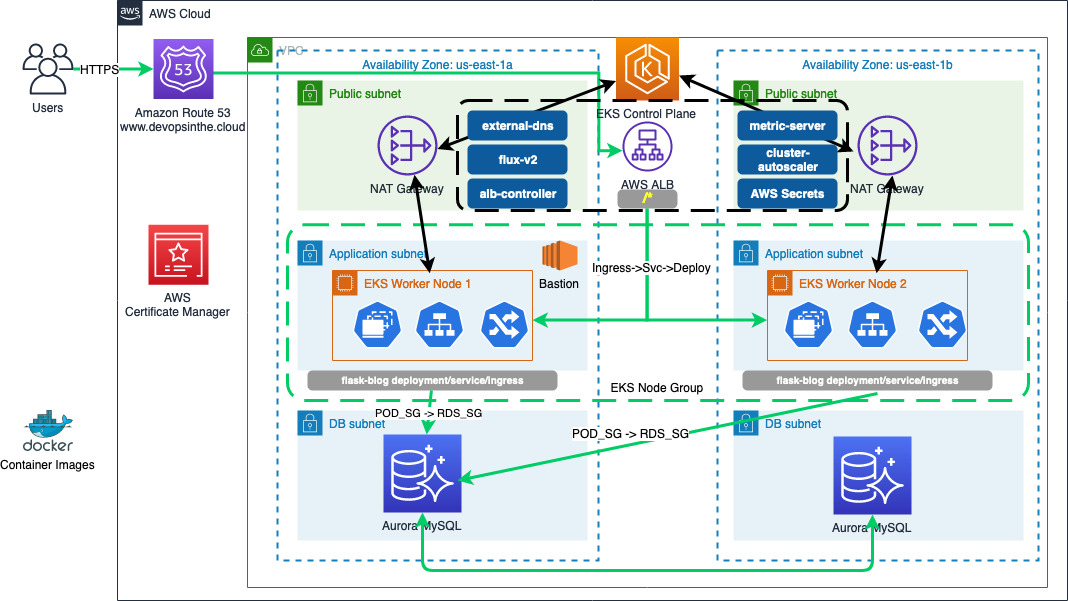
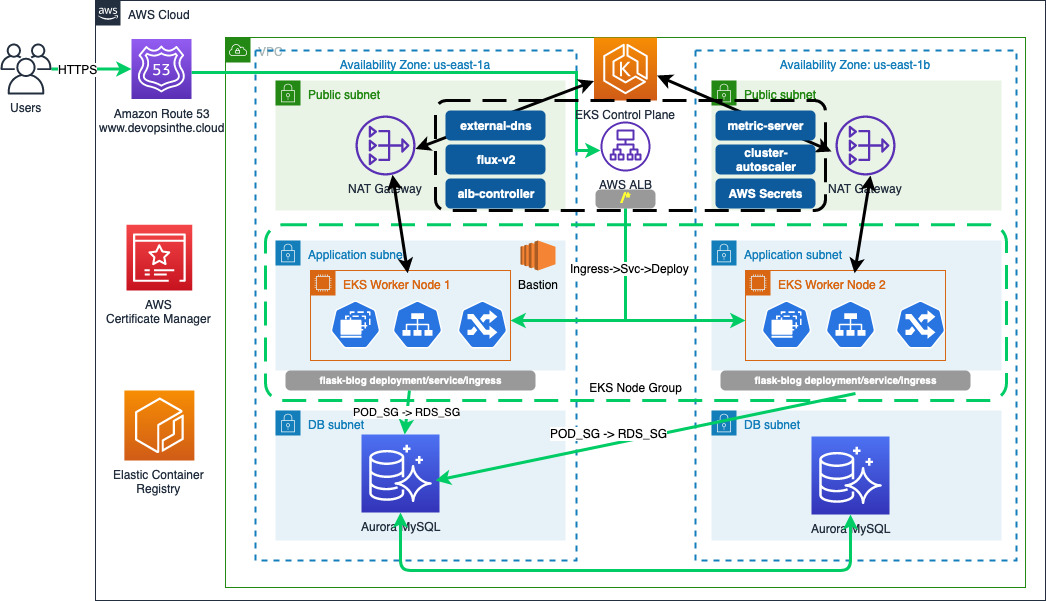
Updated public blog with latest update from private repo.

diff --git a/public-blog/README.md b/public-blog/README.md
@@ -1,16 +1,19 @@
 # DevOps in the Cloud
 
+# DevOps in the Cloud
 
-Personal blog where I experiment and document with different cloud technologies and stacks. The blog can be found [here](https://www.devopsinthe.cloud/).
 
-### It's a work in progress, and here's what I'm working on and what I have working so far:
+Personal blog where I experiment and document with different cloud technologies and stacks.
+
+###
+It's a work in progress, and here's what I'm working on and what I have working so far:
 
 
 
 * Blog MVP: The initial minimum viable product for the blog application. This is written in Python using Bootstrap and Flask.
 * The blog code is stored in Github where the code is unit tested on Pull Request (PRs), and Merge
 * Dependabot checks daily for dependency updates and creates PRs to merge new versions
-* The blog application is containerized and image stored in Dockerhub initially. In the near future, I'll be building an image build pipeline with AWS CodePipeline and store the images in AWS ECR.
+* The blog application is containerized and image stored in AWS Elastic Container Registry (ECR) initially. The image is built via an automated pipeline using GitHub Actions on pushes to the main branch on specific paths.
 * The blog is deployed to Kubernetes in AWS EKS
     * Kubernetes has the following components:
         * ALB Controller
@@ -33,10 +36,14 @@ Personal blog where I experiment and document with different cloud technologies 
     * AWS Elastic Container Registry to stored docker images
     * Bastion host in the Application subnets, reachable only using SSM with connections to the Kubernetes cluster dynamically configured on creation with additional Kubernetes management application needed: Helm and Flux
 * The entire Infrastructure as Code is created using the AWS CDK and the different stacks can be found in `/infra/stacks`
+* Currently there are two different pipelines built using GitHub Actions:
+    * On PRs the code will be linted and Python tests will be run to ensure there are no errors introduced to the application.
+    * On commits to the main branch the docker image will be built, tagged and pushed to the AWS Elastic Container Registry (ECR)
+    * On commit Amazon CodeGuru will perform a code review to ensure no security issues are introduced and/or provide suggestions to make the code more effiicient.
+    * On push to ECR, ECR will scan the images for vulnerabilities and alert of any vulnerabilities found
 
 ### Still work in progress:
 
-* Docker Image Build Pipeline
 * Flux GitOps Deployment Pipeline
 * Infrastructure Deployment Pipeline
 
